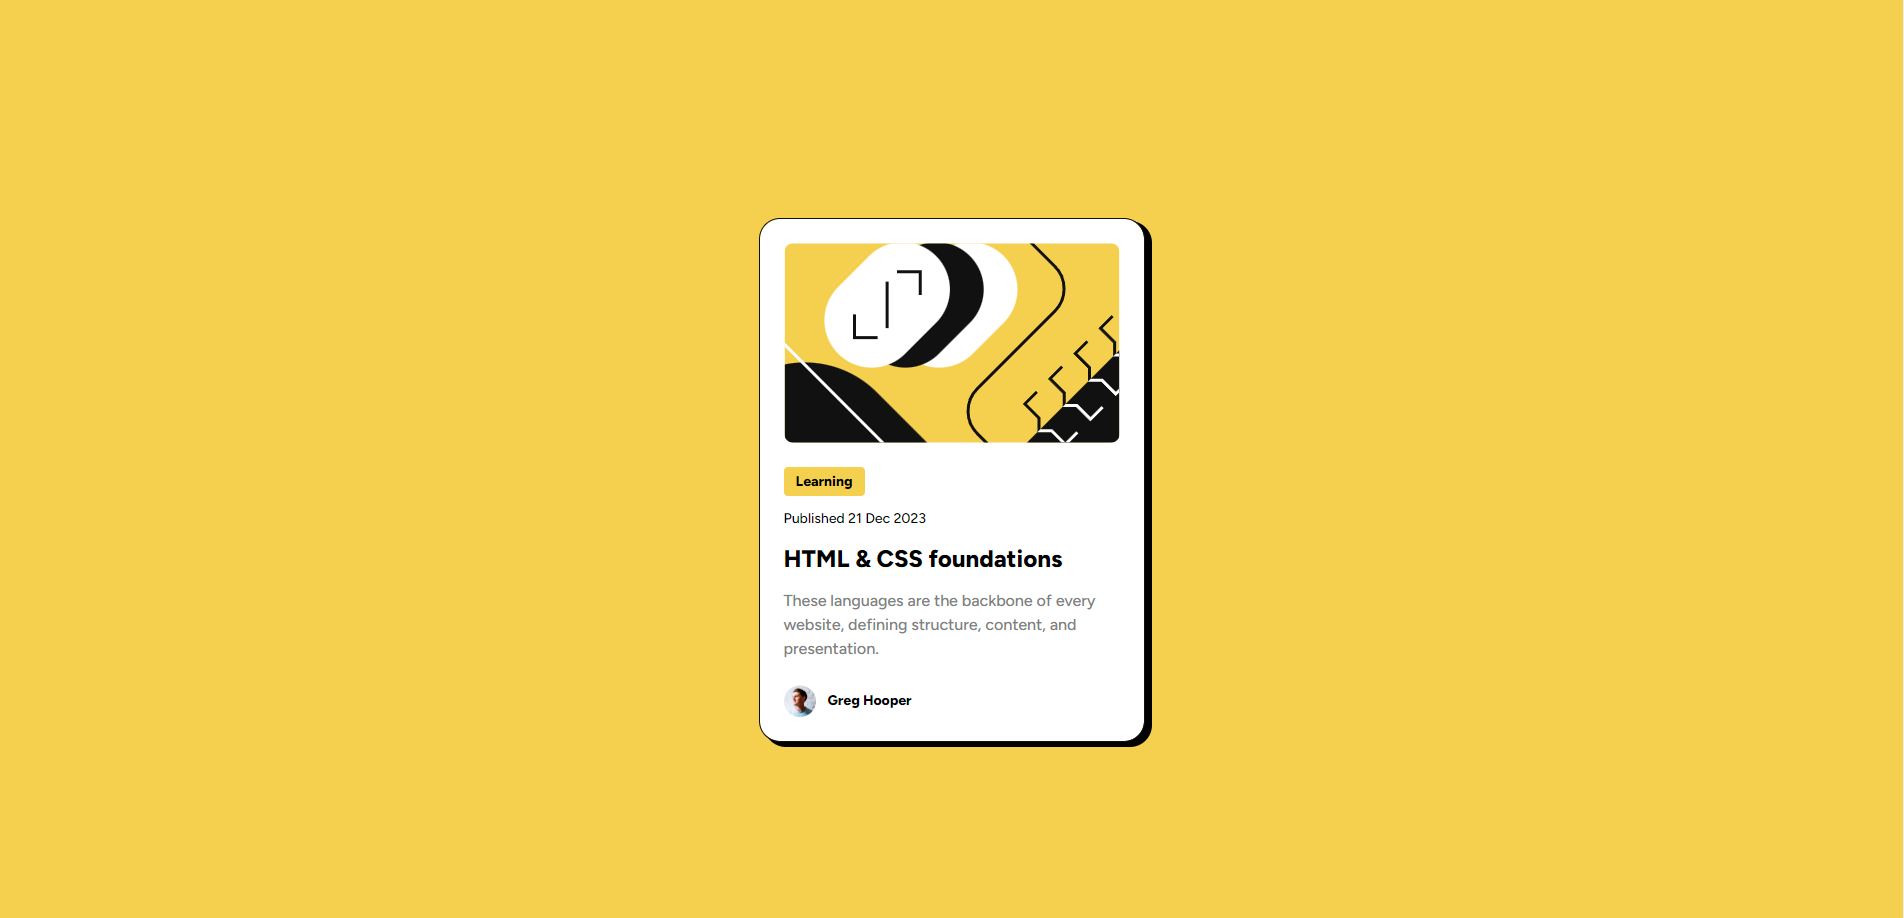
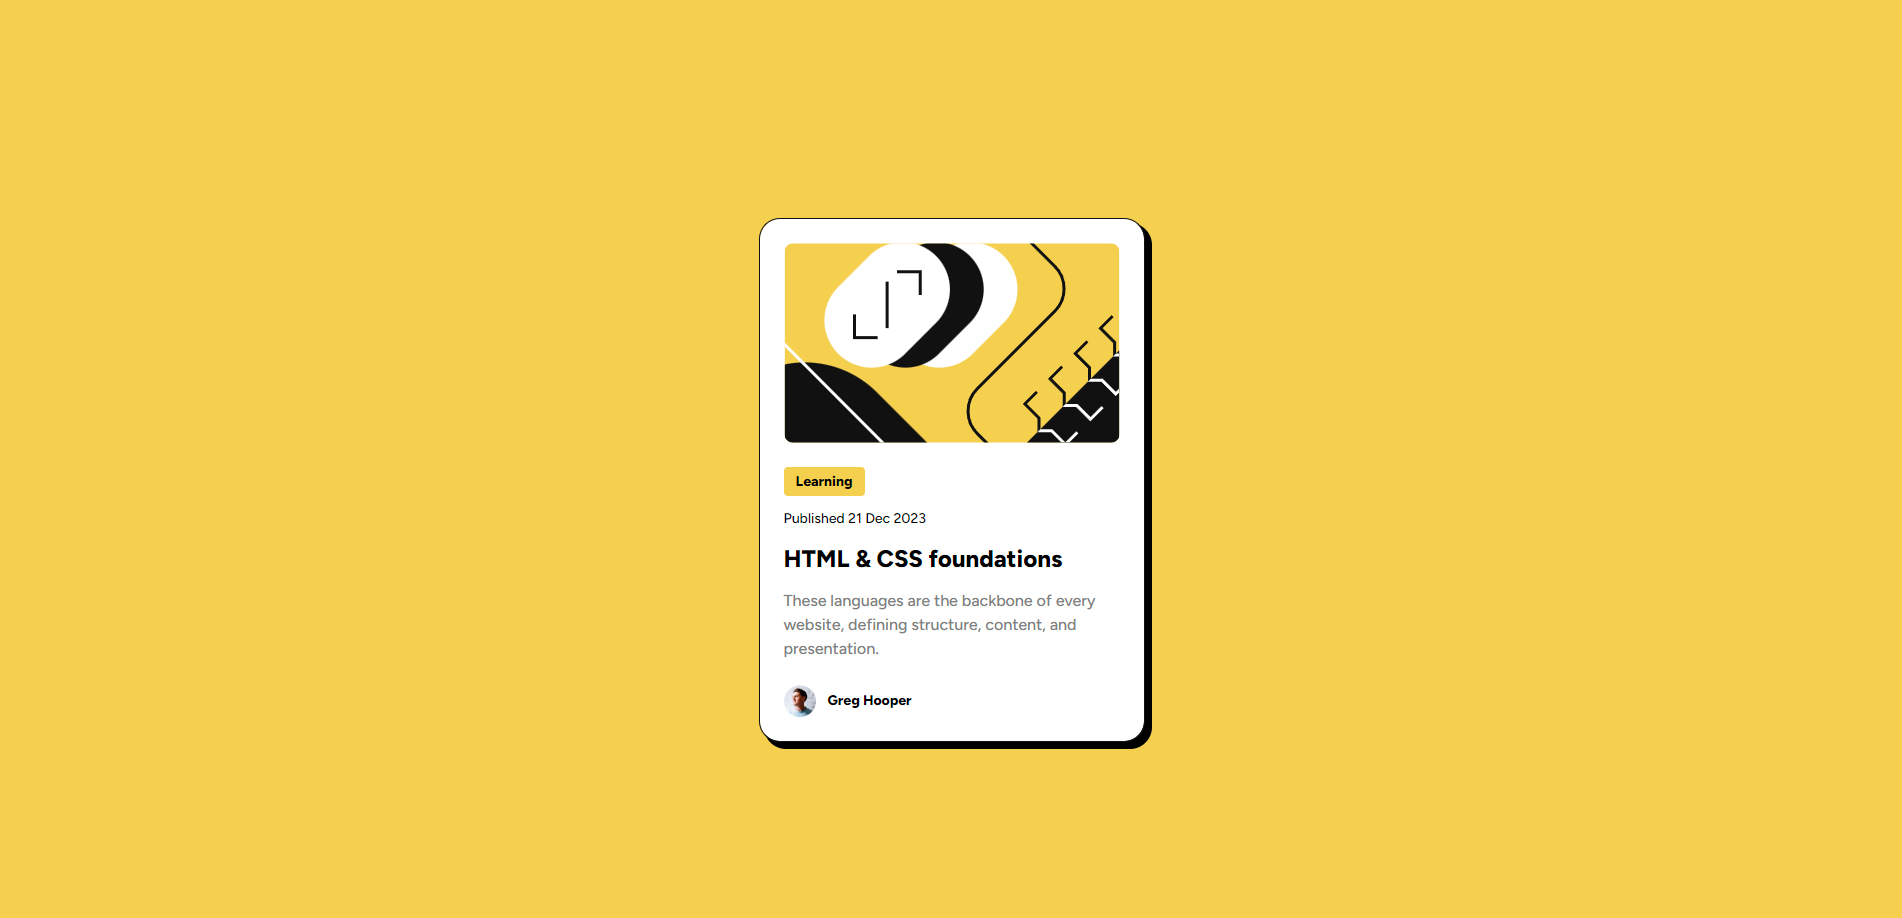
final update

diff --git a/css/style.css b/css/style.css
@@ -44,8 +44,9 @@ body {
 	background-color: var(--light);
 	/* border: 1px solid var(--dark); */
 	outline: 1px solid var(--dark);
+	border: none;
 	border-radius: 2rem;
-	box-shadow: 6px 4px 0px 2px rgba(0, 0, 0, 1);
+	box-shadow: 6px 6px 0px 2px rgba(0, 0, 0, 1);
 }
 
 .blog-image {
